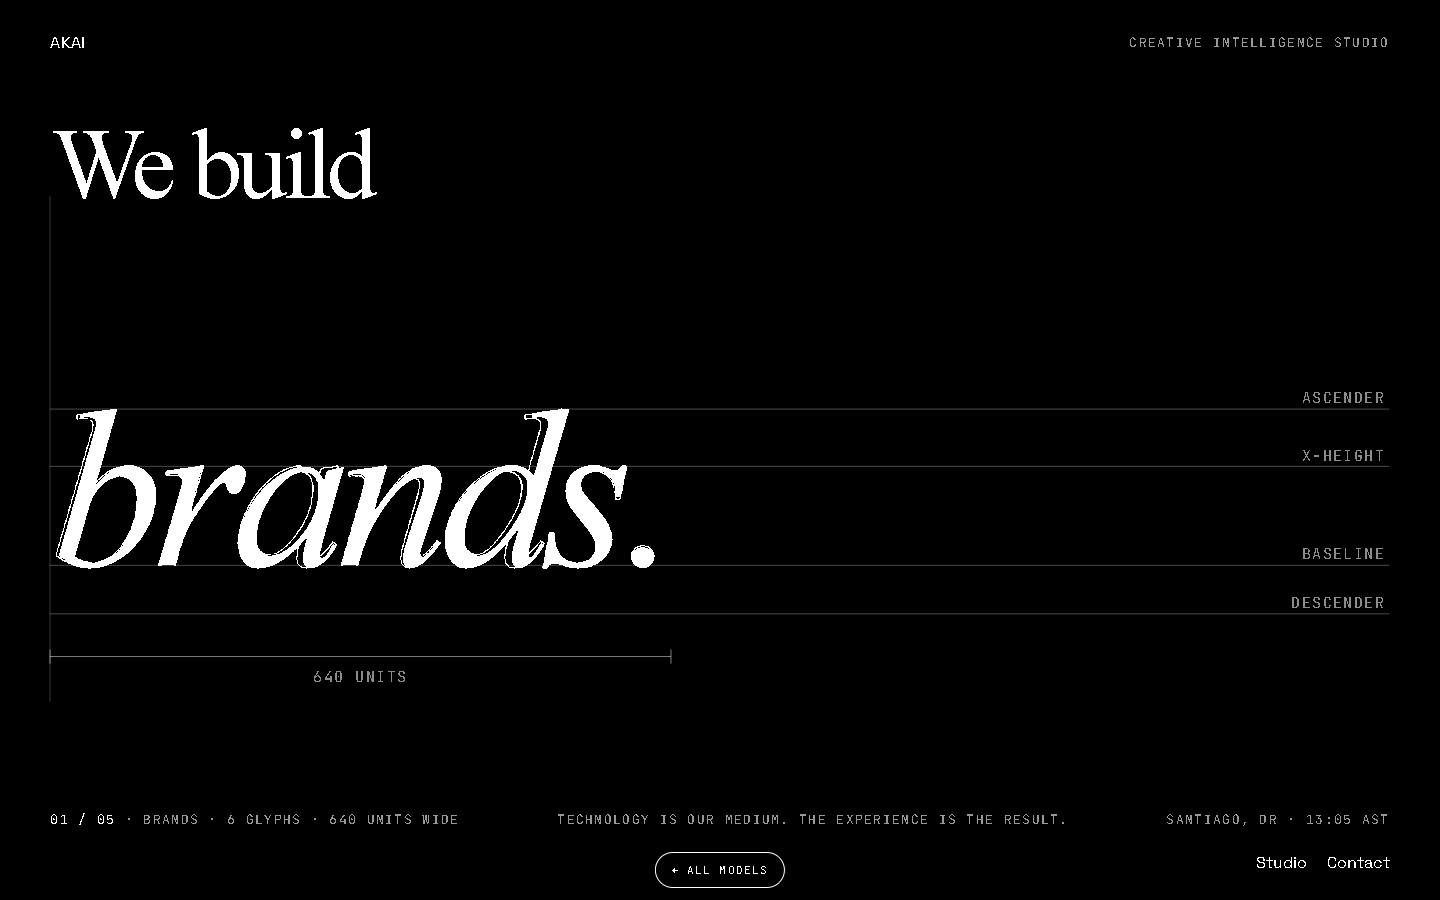
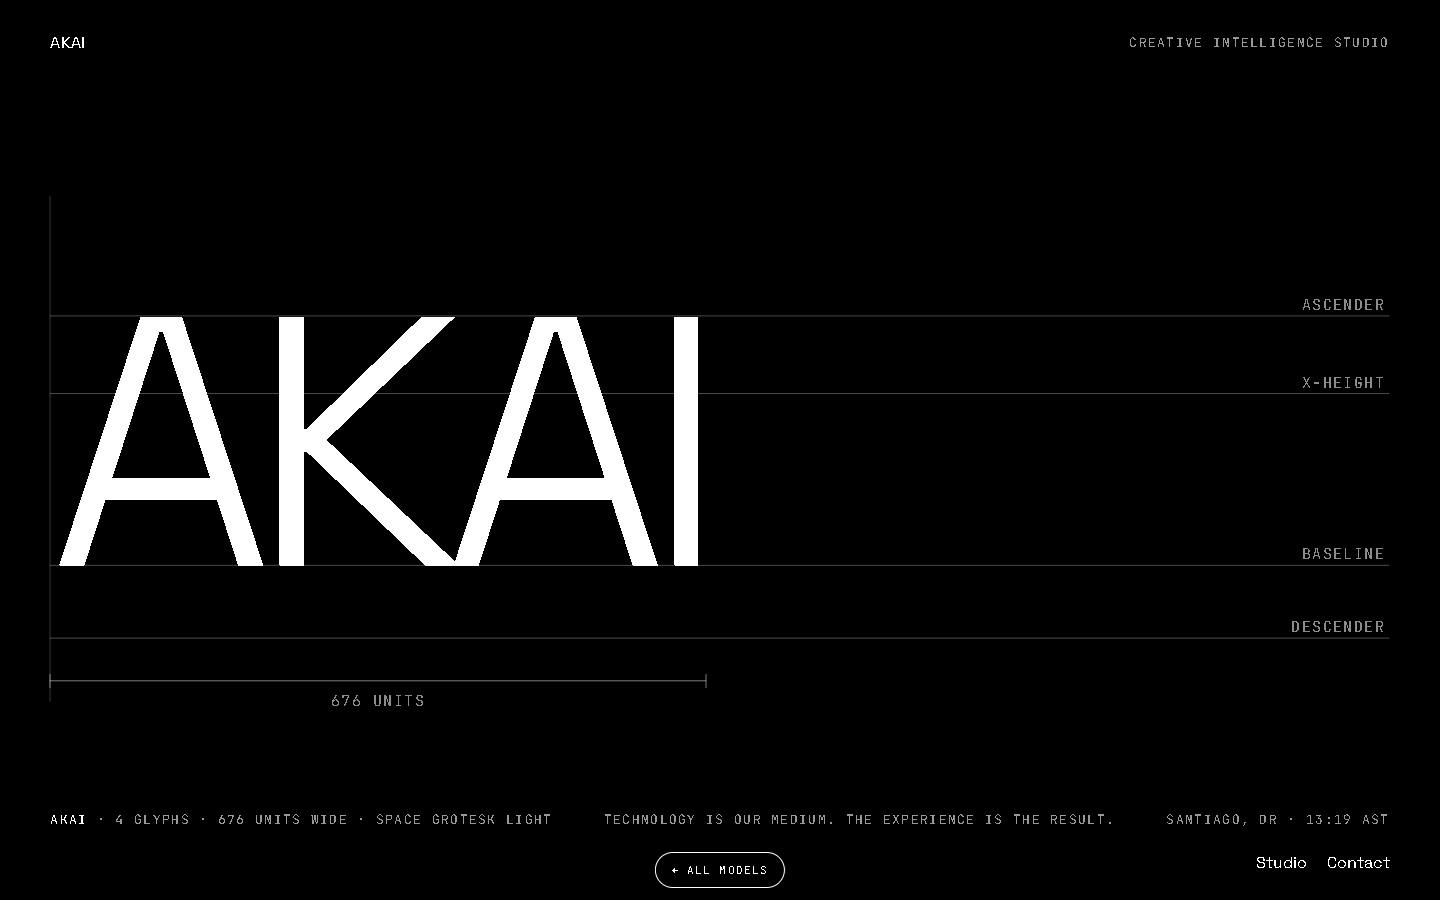
Hero model 9: the name AKAI is drawn first, then the sentence

diff --git a/heroes/modelo-9.html b/heroes/modelo-9.html
@@ -18,7 +18,7 @@
         .logo { font-size: 1rem; letter-spacing: 0.02em; }
         .top p { color: rgba(255, 255, 255, 0.6); }
 
-        .lead { align-self: end; margin-top: clamp(1rem, 5vh, 3rem); font-family: var(--font-serif); font-weight: 400; font-size: clamp(2.5rem, 7vw, 7.5rem); line-height: 0.95; letter-spacing: -0.055em; }
+        .lead { align-self: end; margin-top: clamp(1rem, 5vh, 3rem); font-family: var(--font-serif); font-weight: 400; font-size: clamp(2.5rem, 7vw, 7.5rem); line-height: 0.95; letter-spacing: -0.055em; transition: opacity 600ms ease; }
 
         .spec { align-self: center; width: 100%; height: auto; max-height: 60vh; overflow: visible; }
 
@@ -61,7 +61,7 @@
             <p class="mono">Creative Intelligence Studio</p>
         </header>
 
-        <h1 class="lead" aria-label="We build brands, websites, platforms, automations and experiences.">We build</h1>
+        <h1 class="lead" id="lead" aria-label="We build brands, websites, platforms, automations and experiences.">We build</h1>
 
         <svg class="spec" id="spec" viewBox="60 120 1380 410" aria-hidden="true" focusable="false">
             <line class="guide guide--v" x1="60" y1="0" x2="60" y2="520"/>
@@ -97,82 +97,118 @@
         (() => {
             const reduced = matchMedia('(prefers-reduced-motion: reduce)').matches;
             const NS = 'http://www.w3.org/2000/svg';
-            const WORDS = ['brands', 'websites', 'platforms', 'automations', 'experiences'];
-            const FAMILY = '"Times New Roman", Times, serif';
-            const FIT_WIDTH = 1210;           // widest word fills this much of the drawing
             const BASELINE = 380;
+            const FIT_WIDTH = 1210;   // the widest serif word fills this much of the drawing
+
+            // The name comes first, in the brand's own typeface; then the sentence, in serif. Each lap starts with the name.
+            const BRAND = { text: 'AKAI', family: '"Space Grotesk", system-ui, sans-serif', style: 'normal', weight: 300, spacing: '-0.06em', size: 365 };
+            const SERIF = { family: '"Times New Roman", Times, serif', style: 'italic', weight: 400, spacing: '-0.04em' };
+            const WORDS = ['brands', 'websites', 'platforms', 'automations', 'experiences'];
 
             const word = document.getElementById('word');
+            const lead = document.getElementById('lead');
             const dimline = document.getElementById('dimline');
             const readout = document.getElementById('readout');
             const $ = (id) => document.getElementById(id);
 
-            // 1. Size the type so the longest word fits, then place the guides where this typeface really puts them
             const ctx = document.createElement('canvas').getContext('2d');
-            const measure = (text, size, style = 'italic') => { ctx.font = `${style} 400 ${size}px ${FAMILY}`; return ctx.measureText(text); };
+            const measure = (text, f, size) => { ctx.font = `${f.style} ${f.weight} ${size}px ${f.family}`; return ctx.measureText(text); };
 
             const longest = WORDS.reduce((a, b) => (b.length > a.length ? b : a)) + '.';
-            const size = Math.min(300, Math.floor(FIT_WIDTH / (measure(longest, 100).width / 100)));
-            word.setAttribute('font-size', size);
+            SERIF.size = Math.min(300, Math.floor(FIT_WIDTH / (measure(longest, SERIF, 100).width / 100)));
 
-            const asc = measure('h', size).actualBoundingBoxAscent;
-            const xh = measure('x', size).actualBoundingBoxAscent;
-            const desc = measure('p', size).actualBoundingBoxDescent;
-            const place = (id, y) => { const g = $('g-' + id); g.setAttribute('y1', y); g.setAttribute('y2', y); $('t-' + id).setAttribute('y', y - 6); };
-            place('asc', BASELINE - asc);
-            place('xh', BASELINE - xh);
-            place('base', BASELINE);
-            place('desc', BASELINE + desc);
+            // Each typeface puts its guides in a different place, so they are measured per face and slide between faces
+            const metrics = (f) => ({
+                asc: measure('h', f, f.size).actualBoundingBoxAscent,
+                xh: measure('x', f, f.size).actualBoundingBoxAscent,
+                desc: measure('p', f, f.size).actualBoundingBoxDescent
+            });
+            const GUIDES = { asc: 'g-asc', xh: 'g-xh', base: 'g-base', desc: 'g-desc' };
+            let armed = false;
+            const placeGuides = (f) => {
+                const m = metrics(f);
+                const ys = { asc: BASELINE - m.asc, xh: BASELINE - m.xh, base: BASELINE, desc: BASELINE + m.desc };
+                for (const k in GUIDES) {
+                    const line = $(GUIDES[k]), label = $('t-' + k);
+                    if (!armed) { line.setAttribute('y1', 0); line.setAttribute('y2', 0); label.setAttribute('y', 0); }
+                    line.style.transform = `translateY(${ys[k]}px)`;
+                    label.style.transform = `translateY(${ys[k] - 6}px)`;
+                }
+                armed = true;
+                requestAnimationFrame(() => document.querySelectorAll('.guide, .tick').forEach((el) => { el.style.transition = 'transform 800ms cubic-bezier(0.16, 1, 0.3, 1)'; }));
+                return m;
+            };
+            $('t-asc').textContent = 'Ascender';
 
-            // 2. A dimension line under the current word, measured from what is on screen
-            const dimension = (label) => {
+            const dimension = (descent) => {
                 const b = word.getBBox();
-                const y = BASELINE + desc + 44;
-                dimline.innerHTML = '';
+                const y = BASELINE + descent + 44;
+                dimline.replaceChildren();
                 const add = (tag, attrs, cls) => { const el = document.createElementNS(NS, tag); for (const k in attrs) el.setAttribute(k, attrs[k]); if (cls) el.setAttribute('class', cls); dimline.append(el); return el; };
                 add('line', { x1: b.x, y1: y, x2: b.x + b.width, y2: y }, 'dim');
                 add('line', { x1: b.x, y1: y - 7, x2: b.x, y2: y + 7 }, 'dim');
                 add('line', { x1: b.x + b.width, y1: y - 7, x2: b.x + b.width, y2: y + 7 }, 'dim');
-                add('text', { x: b.x + b.width / 2, y: y + 26, 'text-anchor': 'middle' }, 'tick').textContent = `${Math.round(b.width)} units`;
-                dimline.querySelectorAll('.tick').forEach((t) => { t.style.opacity = 1; t.style.animation = 'none'; });
+                const t = add('text', { x: b.x + b.width / 2, y: y + 26, 'text-anchor': 'middle' }, 'tick');
+                t.textContent = `${Math.round(b.width)} units`;
+                t.style.opacity = 1; t.style.animation = 'none';
                 return Math.round(b.width);
             };
 
-            // 3. Words: draw the outline, fill, hold, un-fill, erase, next word
+            const items = [{ kind: 'brand', text: BRAND.text }, ...WORDS.map((w) => ({ kind: 'serif', text: w }))];
             let index = 0;
+
             const show = (i) => {
-                const w = WORDS[i];
-                word.textContent = w + '.';
-                const width = dimension(w);
-                readout.innerHTML = `<b>${String(i + 1).padStart(2, '0')} / ${String(WORDS.length).padStart(2, '0')}</b> · ${w} · ${w.length} glyphs · ${width} units wide`;
+                const it = items[i];
+                const f = it.kind === 'brand' ? BRAND : { ...SERIF };
+                const size = it.kind === 'brand' ? BRAND.size : SERIF.size;
+                word.style.fontFamily = f.family;
+                word.style.fontStyle = f.style;
+                word.style.fontWeight = f.weight;
+                word.style.letterSpacing = f.spacing;
+                word.setAttribute('font-size', size);
+                word.textContent = it.kind === 'brand' ? it.text : it.text + '.';
+                lead.style.opacity = it.kind === 'brand' ? 0 : 1;
+
+                const m = placeGuides({ ...f, size });
+                const width = dimension(m.desc);
+                const face = it.kind === 'brand' ? 'Space Grotesk Light' : 'Times Italic';
+                const count = `${String(i).padStart(2, '0')} / ${String(WORDS.length).padStart(2, '0')}`;
+                const label = document.createElement('b');
+                const rest = it.kind === 'brand'
+                    ? ` · 4 glyphs · ${width} units wide · ${face}`
+                    : ` · ${it.text} · ${it.text.length} glyphs · ${width} units wide · ${face}`;
+                label.textContent = it.kind === 'brand' ? 'AKAI' : count;
+                readout.replaceChildren(label, rest);
             };
 
             const cycle = () => {
                 show(index);
+                const brand = items[index].kind === 'brand';
+                const D = brand ? 5200 : 5600;
                 dimline.style.opacity = 0;
                 const a = word.animate([
                     { strokeDashoffset: 4000, fillOpacity: 0, offset: 0, easing: 'cubic-bezier(0.16, 1, 0.3, 1)' },
                     { strokeDashoffset: 0, fillOpacity: 0, offset: 0.3, easing: 'ease' },
                     { strokeDashoffset: 0, fillOpacity: 1, offset: 0.42 },
-                    { strokeDashoffset: 0, fillOpacity: 1, offset: 0.76, easing: 'ease' },
-                    { strokeDashoffset: 0, fillOpacity: 0, offset: 0.82, easing: 'cubic-bezier(0.7, 0, 0.84, 0)' },
+                    { strokeDashoffset: 0, fillOpacity: 1, offset: brand ? 0.8 : 0.76, easing: 'ease' },
+                    { strokeDashoffset: 0, fillOpacity: 0, offset: brand ? 0.85 : 0.82, easing: 'cubic-bezier(0.7, 0, 0.84, 0)' },
                     { strokeDashoffset: -4000, fillOpacity: 0, offset: 1 }
-                ], { duration: 5600, fill: 'both' });
+                ], { duration: D, fill: 'both' });
                 setTimeout(() => { dimline.style.opacity = 1; }, 1700);
-                a.onfinish = () => { index = (index + 1) % WORDS.length; cycle(); };
+                a.onfinish = () => { index = (index + 1) % items.length; cycle(); };
             };
 
             const start = () => {
                 if (reduced) {
                     word.style.strokeDashoffset = 0; word.style.fillOpacity = 1;
                     show(0); dimline.style.opacity = 1;
-                    setInterval(() => { index = (index + 1) % WORDS.length; show(index); }, 3200);
+                    setInterval(() => { index = (index + 1) % items.length; show(index); }, 3200);
                 } else {
                     cycle();
                 }
             };
 
-            (document.fonts ? document.fonts.ready : Promise.resolve()).then(start);
+            (document.fonts ? Promise.all([document.fonts.load('300 100px "Space Grotesk"'), document.fonts.ready]) : Promise.resolve()).then(start);
 
             const clock = $('clock');
             const fmt = new Intl.DateTimeFormat('en-US', { timeZone: 'America/Santo_Domingo', hour: '2-digit', minute: '2-digit', hourCycle: 'h23' });
